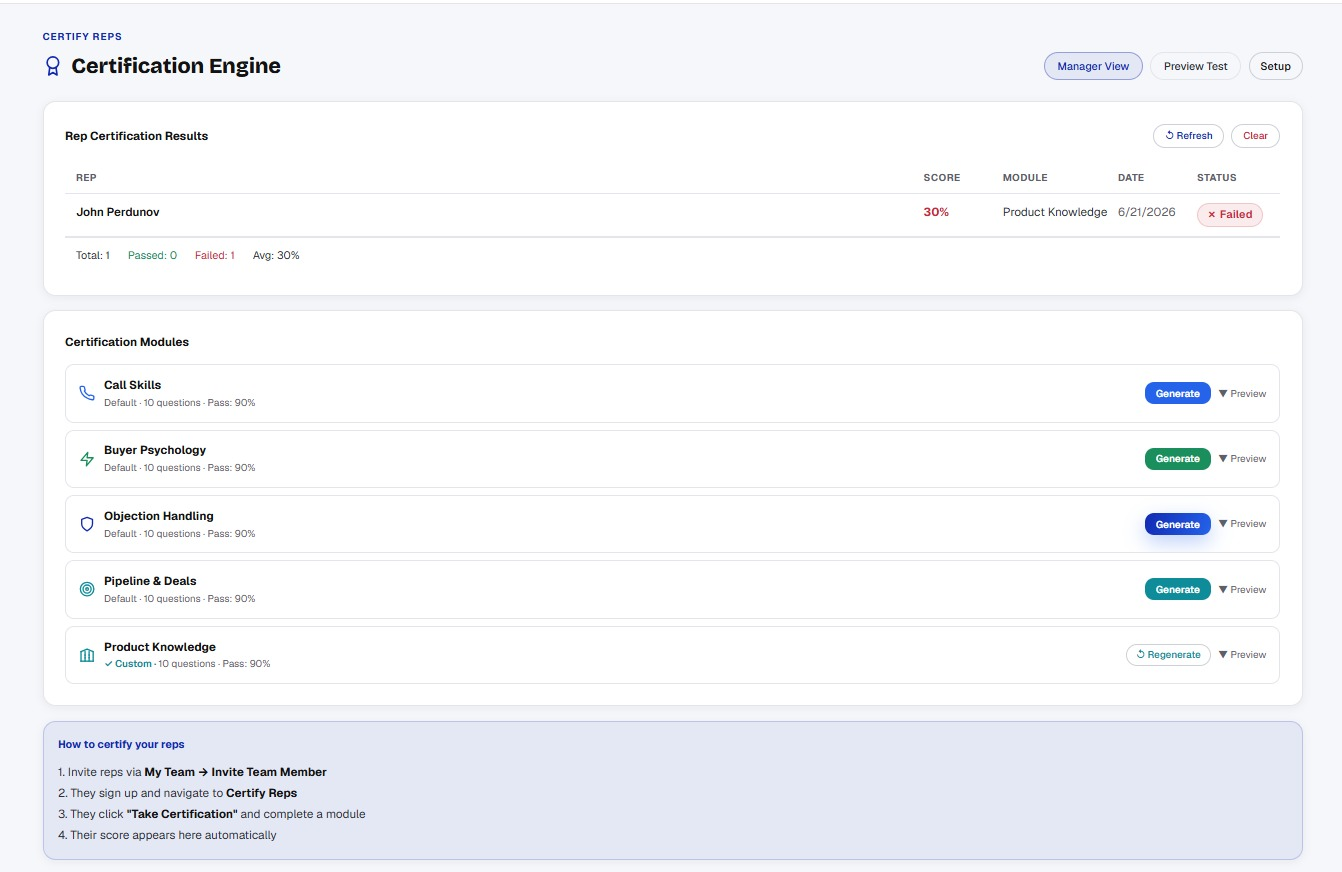
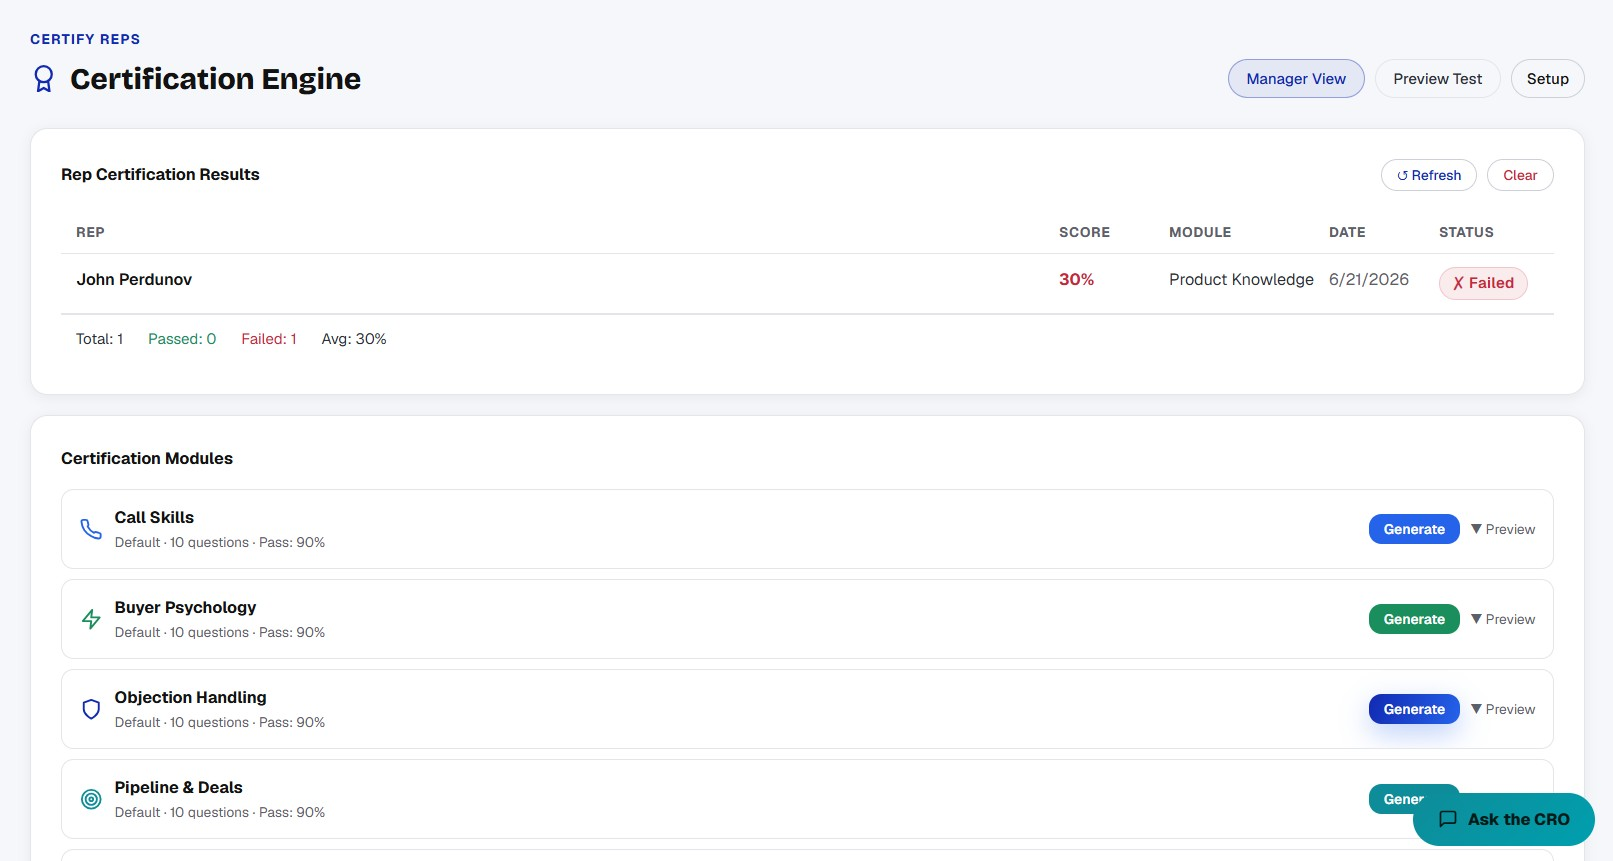
Refresh team gallery shots + add Practice a Call
Swap the manager command center and Rep Certification shots for fresh
light-mode captures (Sales Command Center + Certification Engine), and add a
Practice a Call card to the team gallery (AI buyer-persona simulation from
your ICPs). Update the platform/index hero width-height attrs to the new
image ratios so the reserved boxes stay correct.

diff --git a/platform.html b/platform.html
@@ -122,7 +122,7 @@
           <img src="/Dashboard.jpg" alt="ClinicMind dashboard with Sales Copilot, Outreach Builder, and My Deals" width="1620" height="780" loading="lazy">
         </picture>
         <picture class="gallery-image" data-label="Manager command center" data-bg="#F4F5F8">
-          <img src="/manager-dashboard.jpg" alt="Manager command center - team readiness, certification status, and campaigns at a glance" width="1600" height="839" loading="lazy">
+          <img src="/manager-dashboard.jpg" alt="Manager command center - team readiness, certification status, and campaigns at a glance" width="1615" height="669" loading="lazy">
         </picture>
         <picture class="gallery-image" data-label="Rep dashboard" data-bg="#F4F5F8">
           <img src="/rep-dashboard.jpg" alt="Rep dashboard - assigned certification notice, scripts, and Practice-a-Call" width="1518" height="851" loading="lazy">
@@ -143,7 +143,7 @@
           <img src="/campaign-assign-publish.jpg" alt="Campaigns - a live campaign published and assigned to a specific agent, with cheat sheet, rebuttals and certification tabs" width="1332" height="432" loading="lazy">
         </picture>
         <picture class="gallery-image" data-label="Rep Certification" data-bg="#F4F5F8">
-          <img src="/certification-engine.jpg" alt="Rep Certification - certification modules, pass scores, and rep results in Manager View" width="1342" height="872" loading="lazy">
+          <img src="/certification-engine.jpg" alt="Rep Certification - certification modules, pass scores, and rep results in Manager View" width="1613" height="861" loading="lazy">
         </picture>
         <picture class="gallery-image" data-label="Audit-ready certificate" data-bg="#F4F5F8">
           <img src="/campaign-cert-result.jpg" alt="Audit-ready certificate - agent score, pass threshold, verification ID, and one-click PDF and Word export" width="1600" height="489" loading="lazy">

diff --git a/for-teams.html b/for-teams.html
@@ -257,6 +257,7 @@
       <div class="pg-shot"><div class="pg-img"><img src="/manager-dashboard.jpg" alt="Manager command center" loading="lazy"></div><div class="pg-cap"><h4>Manager command center</h4><p>Build the program, launch campaigns, and see the whole team at a glance.</p></div></div>
       <div class="pg-shot"><div class="pg-img"><img src="/rep-dashboard.jpg" alt="Rep dashboard" loading="lazy"></div><div class="pg-cap"><h4>Rep dashboard</h4><p>Reps land on their materials, today's priorities, and any certification assigned to them.</p></div></div>
       <div class="pg-shot"><div class="pg-img"><img src="/certification-engine.jpg" alt="Rep Certification" loading="lazy"></div><div class="pg-cap"><h4>Rep Certification</h4><p>Generate modules, set the pass score, and see who is field-ready in Manager View.</p></div></div>
+      <div class="pg-shot"><div class="pg-img"><img src="/practice-a-call.jpg" alt="Practice a Call" loading="lazy"></div><div class="pg-cap"><h4>Practice a Call</h4><p>Reps rehearse against an AI buyer persona built from your ICPs, before the real call.</p></div></div>
     </div>
   </div>
 </section>

diff --git a/index.html b/index.html
@@ -191,7 +191,7 @@
           <img src="/campaign-assign-publish.jpg" alt="Campaigns - a live campaign published and assigned to a specific agent, with cheat sheet, rebuttals and certification tabs" width="1332" height="432" loading="lazy">
         </picture>
         <picture class="gallery-image" data-label="Rep Certification" data-bg="#F4F5F8">
-          <img src="/certification-engine.jpg" alt="Rep Certification - certification modules, pass scores, and rep results in Manager View" width="1342" height="872" loading="lazy">
+          <img src="/certification-engine.jpg" alt="Rep Certification - certification modules, pass scores, and rep results in Manager View" width="1613" height="861" loading="lazy">
         </picture>
       </div>
       <button class="gallery-arrow gallery-arrow-right" id="galleryNext" type="button" aria-label="Next screen">
